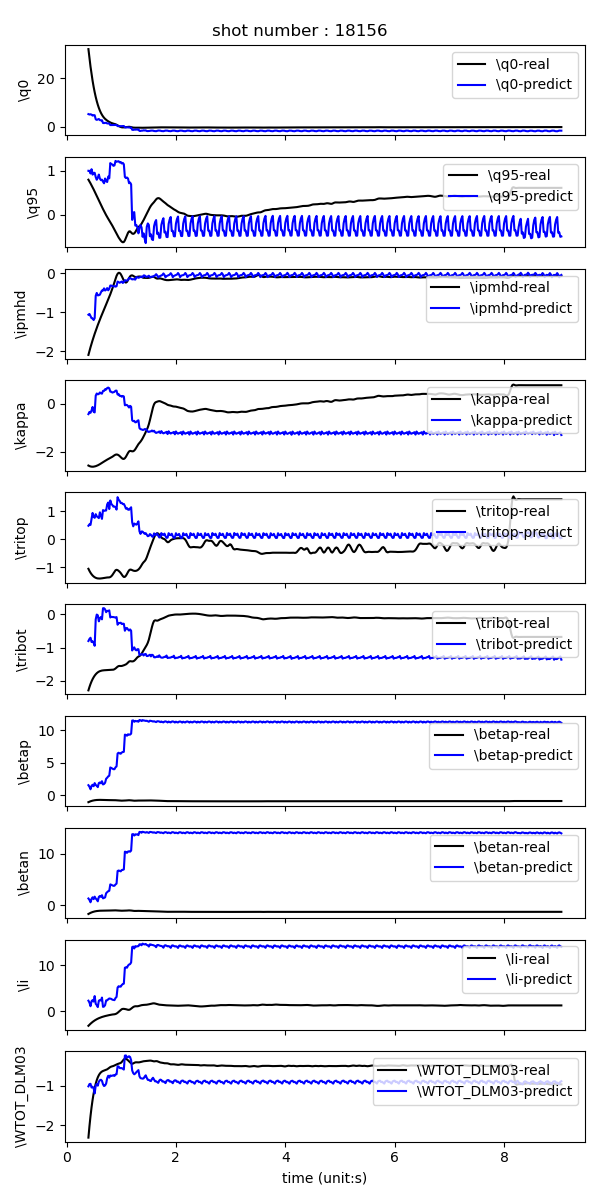
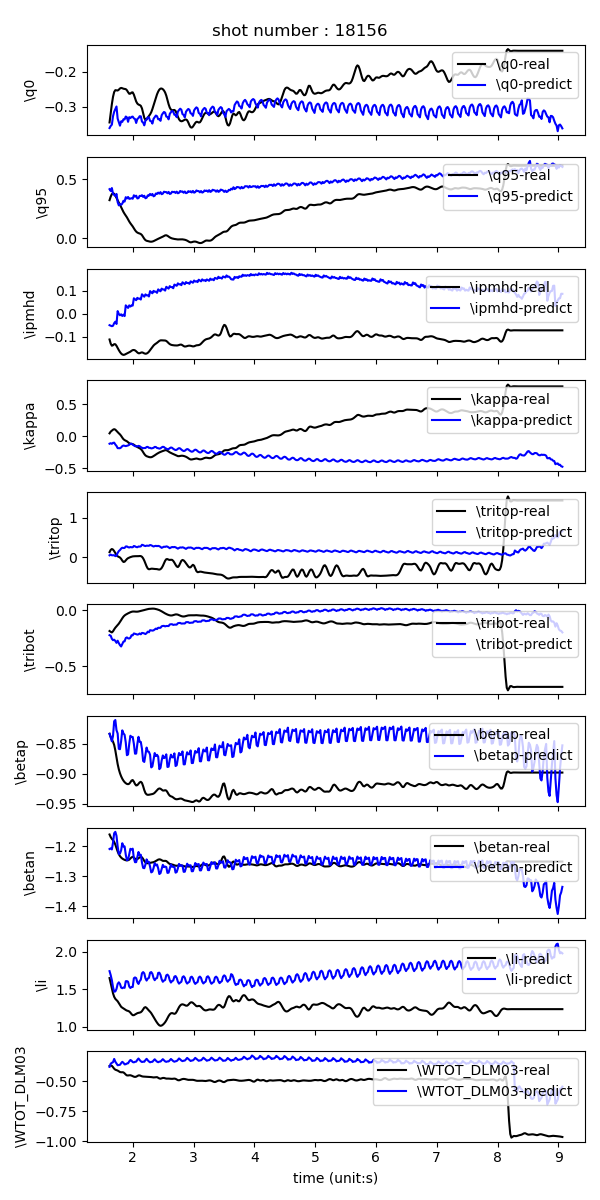
update env

diff --git a/src/nn_env/predict.py b/src/nn_env/predict.py
@@ -29,8 +29,9 @@ def real_time_predict(
     target = df_shot_copy[pred_cols].values
     predictions = []
     
-    idx = 0
-    time_length = seq_len + dist
+    idx_start = 64
+    idx = idx_start
+    time_length = idx_start + seq_len + dist
     idx_max = len(data) - pred_len - seq_len - dist
     
     model.to(device)
@@ -46,8 +47,11 @@ def real_time_predict(
         idx = time_length - dist - seq_len
     
     predictions = np.concatenate(predictions, axis = 0)
-    time_x = time_x[seq_len+dist:seq_len+dist + len(predictions)]
-    actual = target[seq_len+dist:seq_len+dist + len(predictions)]
+    # time_x = time_x[seq_len+dist:seq_len+dist + len(predictions)]
+    # actual = target[seq_len+dist:seq_len+dist + len(predictions)]
+    
+    time_x = time_x[idx_start + seq_len+dist:idx_start + seq_len+dist + len(predictions)]
+    actual = target[idx_start + seq_len+dist:idx_start + seq_len+dist + len(predictions)]
     
     fig,axes = plt.subplots(len(pred_cols), figsize = (6,12), sharex=True, facecolor = 'white')
     plt.suptitle(title)
@@ -91,8 +95,9 @@ def generate_shot_data(
     
     predictions = []
     
-    idx = 0
-    time_length = seq_len + dist
+    idx_start = 64
+    idx = idx_start
+    time_length = idx_start + seq_len + dist
     idx_max = len(time_x) - pred_len - seq_len - dist
     
     model.to(device)
@@ -108,7 +113,7 @@ def generate_shot_data(
             # previous_state : (1,T_in,C_in)
             # next_state : (1,T_out,C_out)
             # check whether initial input or not
-            if idx == 0:
+            if idx == idx_start:
                 previous_state = torch.from_numpy(initial_state[idx:idx+seq_len,:]).unsqueeze(0).to(device)
                 state_list = torch.from_numpy(initial_state[idx:idx+time_length,:]).unsqueeze(0).to(device)
 
@@ -133,8 +138,12 @@ def generate_shot_data(
             predictions.append(prediction)
             
     predictions = np.concatenate(predictions, axis = 0)
-    time_x = time_x[seq_len+dist:seq_len+dist + len(predictions)]
-    actual = target[seq_len+dist:seq_len+dist + len(predictions)]
+    
+    # time_x = time_x[seq_len+dist:seq_len+dist + len(predictions)]
+    # actual = target[seq_len+dist:seq_len+dist + len(predictions)]
+    
+    time_x = time_x[idx_start + seq_len+dist:idx_start + seq_len+dist + len(predictions)]
+    actual = target[idx_start + seq_len+dist:idx_start + seq_len+dist + len(predictions)]
     
     fig,axes = plt.subplots(len(state_cols), figsize = (6,12), sharex=True, facecolor = 'white')
     plt.suptitle(title)

diff --git a/src/rl/env.py b/src/rl/env.py
@@ -7,9 +7,11 @@
     - https://github.com/openai/gym-soccer/blob/master/gym_soccer/envs/soccer_env.py
     - https://medium.com/cloudcraftz/build-a-custom-environment-using-openai-gym-for-reinforcement-learning-56d7a5aa827b
     - https://github.com/notadamking/Stock-Trading-Environment
+    - https://github.com/openai/gym/blob/master/gym/envs/classic_control/cartpole.py
 '''
 import gym
 import os, subprocess, time, signal
+import torch
 import torch.nn as nn
 from gym import error, spaces
 from gym import utils
@@ -31,19 +33,51 @@ class NeuralEnv(gym.Env):
         # reward engineering
         self.reward_sender = reward_sender
         
+        # initalize state, action, done
+        self.done = False
+        self.init_state = None
+        self.init_action = None
+        
+        self.state = None
+        self.action = None
+    
+    # update initial condition for plasma operation
+    def update_init_state(self, init_state : torch.Tensor, init_action : torch.Tensor):
+        self.init_state = init_state.to(self.device)
+        self.init_action = init_action.to(self.device)
+        
+        self.state = init_state.to(self.device)
+    
     def reset(self):
         self.done = False
-        self.state = self.start
+        self.state = self.init_state
+        self.action = self.init_action
+        
         return self.state
 
-    def step(self, action):
-        assert self.action_space.contains(action)
-        pass
-    def render(self):
-        pass
-    def close(self):
-        pass
-    
-    def get_reward(self, new_state):
-        return self.reward_decision(new_state)
+    def step(self, action : torch.Tensor):
+        state = self.state
         
+        if len(state.size()) == 2:
+            state = state.unsqueeze(0)
+        
+        if len(action.size()) == 2:
+            action = action.unsqueeze(0)
+            
+        inputs = torch.concat([state, action], axis = 2)
+        next_state = self.predictor(inputs)
+        reward = self.reward_sender(next_state)
+        
+        self.check_terminal_state(next_state)
+        
+        self.state = next_state
+        
+        return next_state, reward, self.done, {}
+
+    def get_reward(self, next_state : torch.Tensor):
+        return self.reward_sender(next_state)
+    
+    def check_terminal_state(self, next_state : torch.Tensor):
+        # if state contains nan value, then terminate the environment
+        if torch.isnan(next_state).sum() > 0:
+            self.done = True

diff --git a/train_and_test_nn_env.py b/train_and_test_nn_env.py
@@ -22,8 +22,8 @@ parser.add_argument("--max_norm_grad", type = float, default = 1.0)
 parser.add_argument("--root_dir", type = str, default = "./weights/")
 parser.add_argument("--tag", type = str, default = "TStransformer")
 parser.add_argument("--seq_len", type = int, default = 21)
-parser.add_argument("--pred_len", type = int, default = 7)
-parser.add_argument("--interval", type = int, default = 7)
+parser.add_argument("--pred_len", type = int, default = 3)
+parser.add_argument("--interval", type = int, default = 3)
 parser.add_argument("--dist", type = int, default = 0)
 
 args = vars(parser.parse_args())
@@ -121,7 +121,6 @@ if __name__ == "__main__":
     valid_data = DatasetFor0D(ts_valid, df_disruption, seq_len, pred_len, dist, cols_0D, cols_control, pred_cols, interval, scaler = None)
     test_data = DatasetFor0D(ts_test, df_disruption, seq_len, pred_len, dist, cols_0D, cols_control, pred_cols, interval, scaler = None)
     
-    
     print("train data : ", train_data.__len__())
     print("valid data : ", valid_data.__len__())
     print("test data : ", test_data.__len__())
@@ -141,6 +140,7 @@ if __name__ == "__main__":
             dim_feedforward = 512, 
             dropout = 0.25, 
             mlp_dim = 64, 
+            pred_len = pred_len,
             output_dim = len(pred_cols)
         )
         
@@ -183,6 +183,7 @@ if __name__ == "__main__":
         save_last = save_last_dir,
         max_norm_grad = args['max_norm_grad'],
     )
+    
     
     model.load_state_dict(torch.load(save_best_dir))
 

diff --git a/src/nn_env/dataset.py b/src/nn_env/dataset.py
@@ -134,8 +134,8 @@ class DatasetFor0D(Dataset):
         input_idx = self.input_indices[idx]
         target_idx = self.target_indices[idx]
         
-        data = self.ts_data[self.state_cols + self.control_cols].loc[input_idx:input_idx + self.seq_len -1].values
-        target = self.ts_data[self.pred_cols].loc[target_idx : target_idx + self.pred_len -1].values
+        data = self.ts_data[self.state_cols + self.control_cols].loc[input_idx+1:input_idx + self.seq_len].values
+        target = self.ts_data[self.pred_cols].loc[target_idx+1: target_idx + self.pred_len].values
         
         data = torch.from_numpy(data).float()
         target = torch.from_numpy(target).float()
